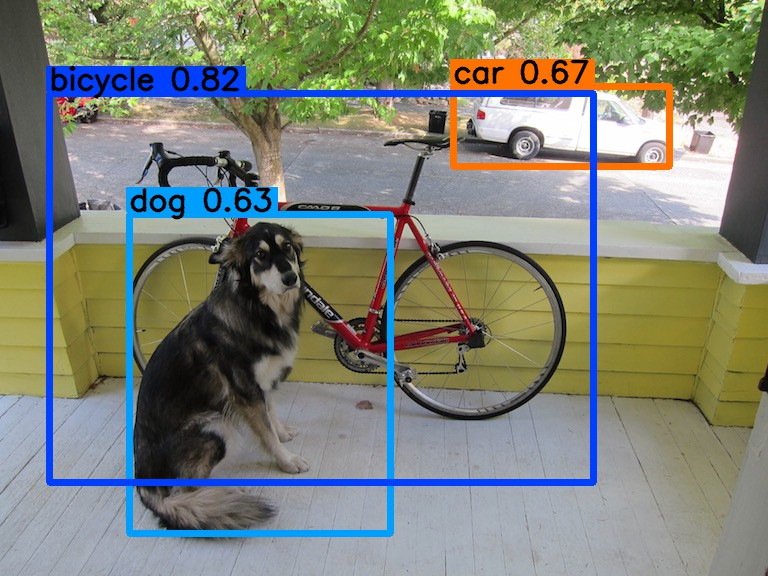
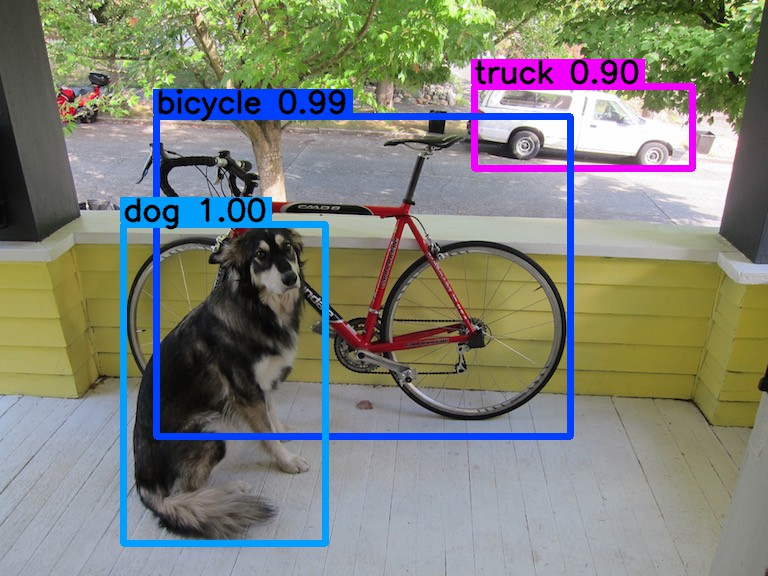
Add: YOLOV3 image detection

Changed region(s): [[0.0312, 0.0938, 0.9062, 0.9688]]

diff --git a/yolov3/model.py b/yolov3/model.py
@@ -1,0 +1,128 @@
+import sys
+
+import numpy as np
+import tensorflow as tf
+from keras import backend as K
+from keras.layers import Lambda
+from keras.layers.merge import concatenate
+from keras.models import Model
+from utils.yolo_utils import scale_boxes
+
+def yolo_head(feats, anchors, num_classes, n):
+    """Convert final layer features to bounding box parameters."""
+    num_anchors = len(anchors)
+    # Reshape to batch, height, width, num_anchors, box_params.
+    anchors_tensor = K.reshape(K.constant(anchors), [1, 1, 1, num_anchors, 2])
+
+    conv_dims = K.shape(feats)[1:3]  # assuming channels last
+    # In YOLO the height index is the inner most iteration.
+    conv_height_index = K.arange(0, stop=conv_dims[0])
+    conv_width_index = K.arange(0, stop=conv_dims[1])
+    conv_height_index = K.tile(conv_height_index, [conv_dims[1]])
+
+    conv_width_index = K.tile(K.expand_dims(conv_width_index, 0), [conv_dims[0], 1])
+    conv_width_index = K.flatten(K.transpose(conv_width_index))
+    conv_index = K.transpose(K.stack([conv_height_index, conv_width_index]))
+    conv_index = K.reshape(conv_index, [1, conv_dims[0], conv_dims[1], 1, 2])
+    conv_index = K.cast(conv_index, K.dtype(feats))
+
+    feats = K.reshape(feats, [-1, conv_dims[0], conv_dims[1], num_anchors, num_classes + 5])
+    conv_dims = K.cast(K.reshape(conv_dims, [1, 1, 1, 1, 2]), K.dtype(feats))
+
+    box_xy = K.sigmoid(feats[..., :2])
+    box_wh = K.exp(feats[..., 2:4])
+    box_confidence = K.sigmoid(feats[..., 4:5])
+    box_class_probs = K.sigmoid(feats[..., 5:])
+
+    # Adjust preditions to each spatial grid point and anchor size.
+    # Note: YOLO iterates over height index before width index.
+    # TODO: It works with +1, don't know why.
+    box_xy = (box_xy + conv_index + 1) / conv_dims
+    # TODO: Input layer size
+    box_wh = box_wh * anchors_tensor / conv_dims / {0:32, 1:16, 2:8}[n]
+
+    return box_xy, box_wh, box_confidence, box_class_probs
+
+
+def yolo_boxes_to_corners(box_xy, box_wh):
+    """Convert YOLO box predictions to bounding box corners."""
+    box_mins = box_xy - (box_wh / 2.)
+    box_maxes = box_xy + (box_wh / 2.)
+
+    return K.concatenate([
+        box_mins[..., 1:2],  # y_min
+        box_mins[..., 0:1],  # x_min
+        box_maxes[..., 1:2],  # y_max
+        box_maxes[..., 0:1]  # x_max
+    ])
+
+def yolo_boxes_and_scores(feats, anchors, num_classes, n):
+    '''Process Conv layer output'''
+    box_xy, box_wh, box_confidence, box_class_probs = yolo_head(feats, anchors, num_classes, n)
+    # Convert boxes to be ready for filtering functions 
+    boxes = yolo_boxes_to_corners(box_xy, box_wh)
+    boxes = K.reshape(boxes, [-1, 3, 4])
+    # Compute box scores
+    box_scores = box_confidence * box_class_probs
+    box_scores = K.reshape(box_scores, [-1, 3, num_classes])
+    return boxes, box_scores
+
+def yolo_filter_boxes(boxes, box_scores, box_class_probs, threshold = .6):
+    # Find the box_classes thanks to the max box_scores, keep track of the corresponding score
+    box_classes = K.argmax(box_scores, axis=-1)
+    box_class_scores = K.max(box_scores, axis=-1, keepdims=False)
+
+    # Create a filtering mask based on "box_class_scores" by using "threshold". The mask should have the
+    # same dimension as box_class_scores, and be True for the boxes you want to keep (with probability >= threshold)
+    filtering_mask = box_class_scores >= threshold # (3549, 3)
+
+    # Apply the mask to scores, boxes and classes
+    scores = tf.boolean_mask(box_class_scores, filtering_mask)
+    boxes = tf.boolean_mask(boxes, filtering_mask)
+    classes = tf.boolean_mask(box_classes, filtering_mask)
+    
+    return scores, boxes, classes
+
+def yolo_non_max_suppression(scores, boxes, classes, max_boxes = 10, iou_threshold = 0.5):
+    max_boxes_tensor = K.variable(max_boxes, dtype='int32') # tensor to be used in tf.image.non_max_suppression()
+    K.get_session().run(tf.variables_initializer([max_boxes_tensor])) # initialize variable max_boxes_tensor
+    
+    # Use tf.image.non_max_suppression() to get the list of indices corresponding to boxes you keep
+    nms_indices = tf.image.non_max_suppression(boxes, scores, max_boxes, iou_threshold)
+    
+    # Use K.gather() to select only nms_indices from scores, boxes and classes
+    scores = K.gather(scores, nms_indices)
+    boxes = K.gather(boxes, nms_indices)
+    classes = K.gather(classes, nms_indices)
+    
+    return scores, boxes, classes
+
+    
+def yolo_eval(
+        yolo_outputs, 
+        anchors, 
+        num_classes,
+        image_shape=(720., 1280.), 
+        max_boxes=10, 
+        score_threshold=.6, 
+        iou_threshold=.5):
+    #  Get three scales outputs of the YOLO model
+    for i in range(0,3):
+        _boxes, _box_scores = yolo_boxes_and_scores(yolo_outputs[i], anchors[6-3*i:9-3*i], num_classes, i)
+        if i==0:
+            boxes, box_scores= _boxes, _box_scores
+        else:
+            boxes = K.concatenate([boxes,_boxes], axis=0)
+            box_scores = K.concatenate([box_scores,_box_scores], axis=0)
+    
+    # Use one of the functions you've implemented to perform Score-filtering with a threshold of score_threshold (≈1 line)
+    scores, boxes, classes = yolo_filter_boxes(boxes, box_scores, score_threshold)
+
+    # Scale boxes back to original image shape.
+    boxes = scale_boxes(boxes, image_shape)
+
+    # Use one of the functions you've implemented to perform Non-max suppression with a threshold of iou_threshold (≈1 line)
+    scores, boxes, classes = yolo_non_max_suppression(scores, boxes, classes, max_boxes, iou_threshold)
+
+    return scores, boxes, classes
+    

diff --git a/test_yolov3.py b/test_yolov3.py
@@ -1,0 +1,47 @@
+import os
+import time
+import cv2
+import numpy as np
+import tensorflow as tf
+from keras import backend as K
+from keras.models import load_model
+from yolov3.model import yolo_eval
+from utils.yolo_utils import *
+
+def image_detection(sess, image_path, image_file):
+    # Preprocess your image
+    image, image_data = preprocess_image(image_path + image_file, model_image_size = (416, 416))
+    
+    # Run the session with the correct tensors and choose the correct placeholders in the feed_dict.
+    # You'll need to use feed_dict={yolo_model.input: ... , K.learning_phase(): 0})
+    out_scores, out_boxes, out_classes = sess.run([scores, boxes, classes], feed_dict={yolov3.input:image_data, K.learning_phase():0})
+
+    # Print predictions info
+    print('Found {} boxes for {}'.format(len(out_boxes), image_file))
+    # Generate colors for drawing bounding boxes.
+    colors = generate_colors(class_names)
+    # Draw bounding boxes on the image file
+    image = draw_boxes(image, out_scores, out_boxes, out_classes, class_names, colors)
+    # Save the predicted bounding box on the image
+    #image.save(os.path.join("out", image_file), quality=90)
+    cv2.imwrite(os.path.join("out", image_file), image, [cv2.IMWRITE_JPEG_QUALITY, 90])
+    
+    return out_scores, out_boxes, out_classes
+
+if __name__ == "__main__":
+    sess = K.get_session()
+
+    yolov3 = load_model("model_data/yolov3.h5")
+    #yolov3.summary()
+    
+    class_names = read_classes("model_data/yolo_coco_classes.txt")
+    anchors = read_anchors("model_data/yolov3_anchors.txt")
+
+    # image detection
+    image_file = "dog.jpg"
+    image_path = "images/"
+    image_shape = np.float32(cv2.imread(image_path + image_file).shape[:2])
+
+    scores, boxes, classes = yolo_eval(yolov3.output, anchors, len(class_names), image_shape=image_shape)
+    out_scores, out_boxes, out_classes = image_detection(sess, image_path, image_file)
+    

diff --git a/utils/yolo_utils.py b/utils/yolo_utils.py
@@ -38,6 +38,7 @@ def scale_boxes(boxes, image_shape):
 
 def preprocess_image(img_path, model_image_size):    
     image = cv2.imread(img_path)
+    print(image.shape)
     resized_image = cv2.resize(image, tuple(reversed(model_image_size)), interpolation=cv2.INTER_AREA)
     # images/dog.jpg use this is good
     #resized_image = cv2.resize(image, tuple(reversed(model_image_size)), interpolation=cv2.INTER_CUBIC)

diff --git a/README.md b/README.md
@@ -1,6 +1,8 @@
 # Object Detection
 This is exercise for object detection with ```ssd_mobilenet``` and ```tiny-yolo(coco)```
 
+Add: ```YOLOV3```
+
 
 ## Usage
 
@@ -17,3 +19,24 @@ $ python3 test_tiny_yolo.py
 ```baash 
 $ python3 test_ssd_mobilenet.py 
 ```
+
+### 3. YOLOV3
+
+* download the [yolov3](https://drive.google.com/open?id=1vdD9TPiTWqvPxtCXdbVSKKksSdu0j_Hn) file and put it to model_data file
+
+```baash 
+$ python3 test_yolov3.py 
+```
+
+## YOLOV2 vs YOLOV3
+
+* YOLOV2
+![YOLOV2](/out/dog2.jpg)
+
+
+* YOLOV3
+![YOLOV2](/out/dog.jpg)
+
+## Acknowledgments
+
+* Thanks to [keras-yolo3](https://github.com/qqwweee/keras-yolo3) for yolov3-keras part
